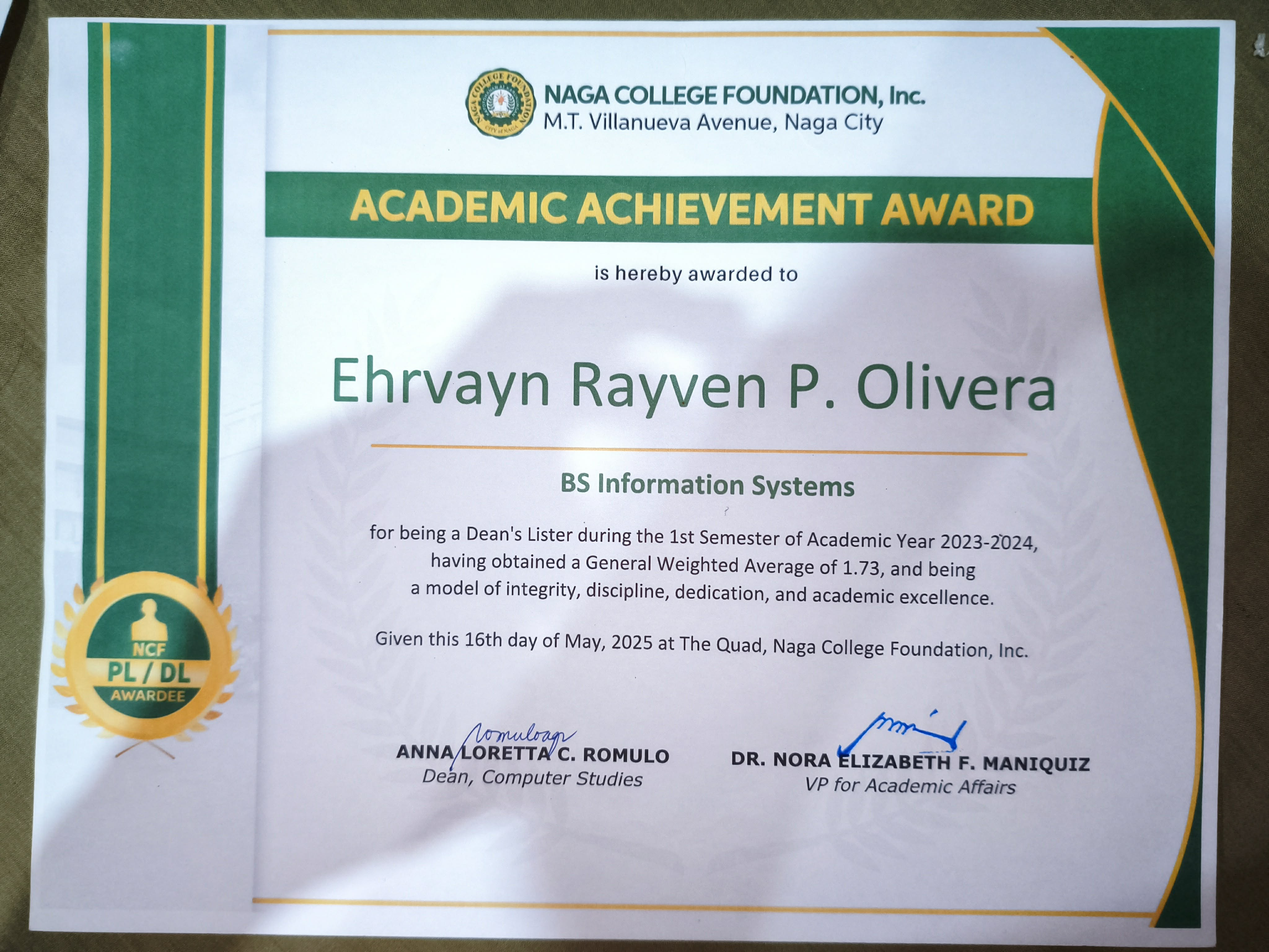
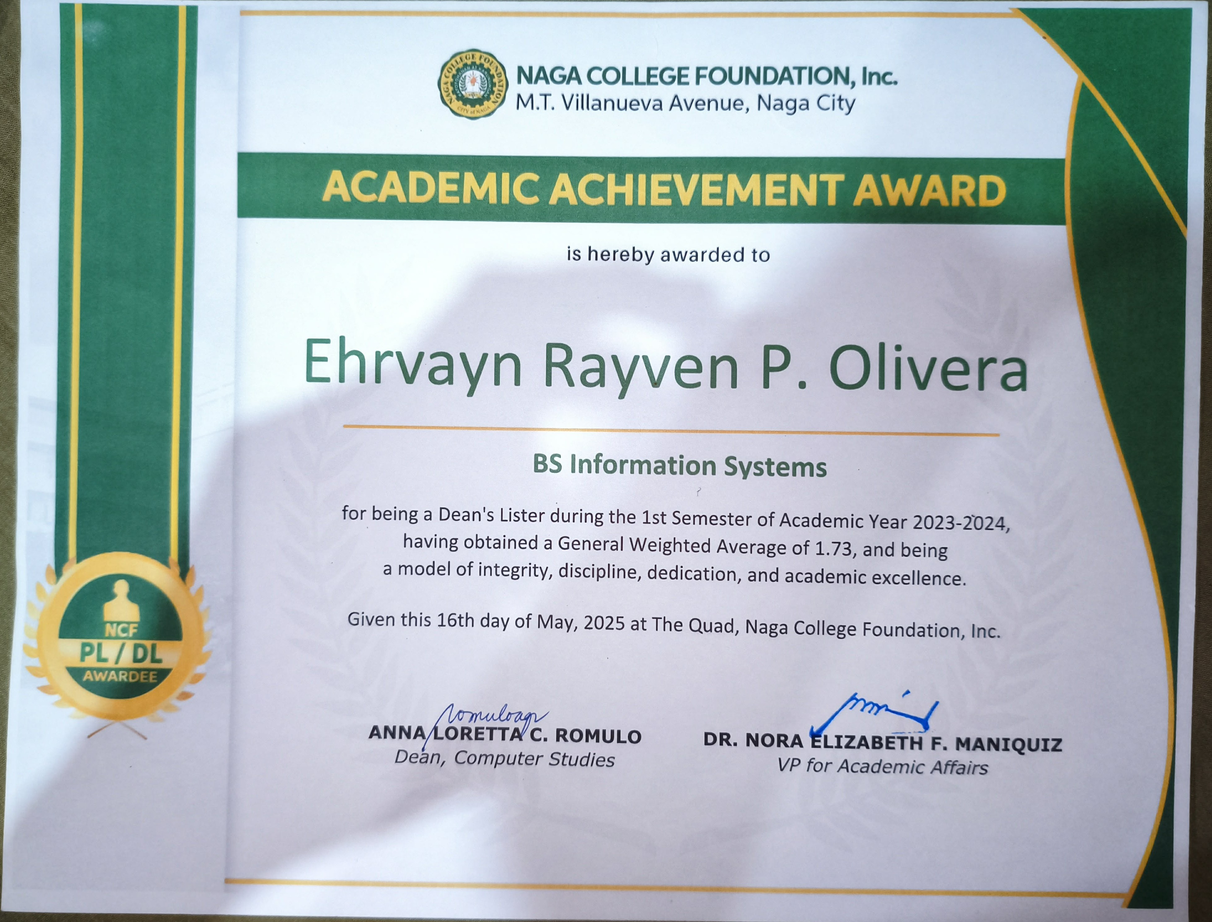
added certificate

diff --git a/src/components/containers/Certifications.jsx b/src/components/containers/Certifications.jsx
@@ -1,5 +1,5 @@
 import { useState } from "react";
-import profilePic from "../../assets/img/profile.jpg";
+import JSCert from "../../assets/img/JScertificate.png";
 import DL1stSem from "../../assets/img/DL-1stSem.jpg";
 import DL2ndSem from "../../assets/img/DL-2ndSem.jpg";
 import { useDarkMode } from "../../context/DarkmodeProvider";
@@ -10,16 +10,20 @@ function Certifications() {
 
   const certifications = [
     {
-      name: "2023-2024 Dean's Lister Second Semester",
+      name: "JavaScript Developer Certification 2026",
+      issuer: "freeCodeCamp",
+      img: JSCert,
+    },
+    {
+      name: "Dean's Lister Second Semester 2023-2024",
       issuer: "Naga College Foundation Inc.",
       img: DL2ndSem,
     },
     {
-      name: "2023-2024 Dean's Lister First Semester",
+      name: "Dean's Lister First Semester 2023-2024",
       issuer: "Naga College Foundation Inc.",
       img: DL1stSem,
     },
-    { name: "", issuer: "", img: null },
     { name: "", issuer: "", img: null },
   ];
 
